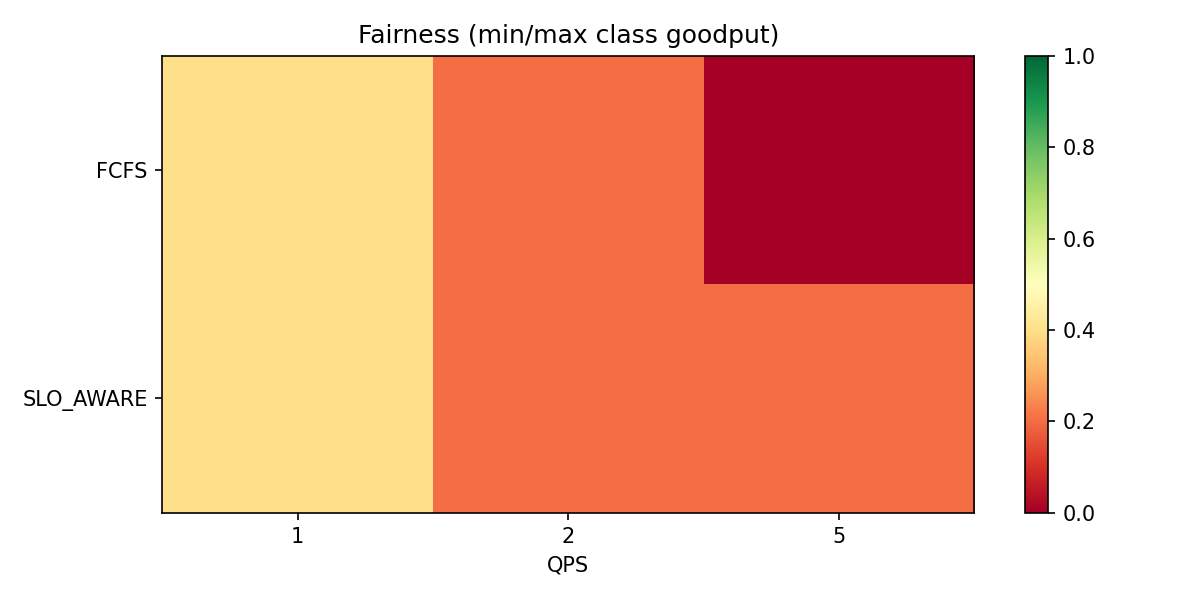
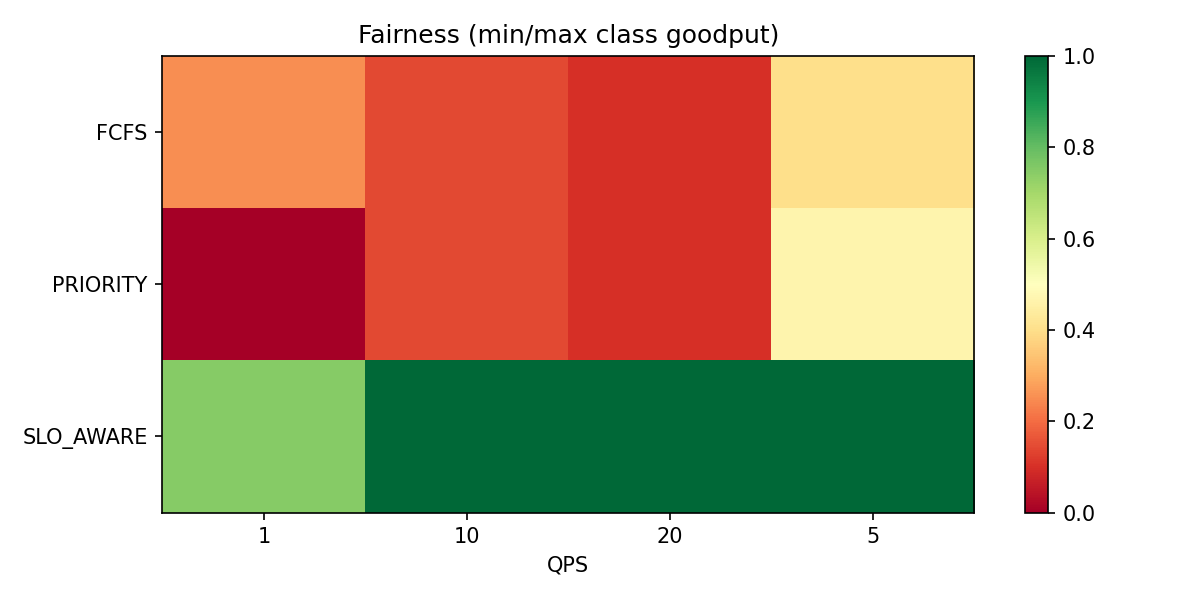
feat(slo-scheduling): GPU benchmark results — 100% goodput SLO-Aware
GPU results on L40S show SLO-Aware scheduler achieves 100% goodput at
QPS 5-20 with perfect fairness, while FCFS and Priority plateau at
60-70%. Per-class max_tokens ensures workload heterogeneity. Deadline
reordering + admission control prevent head-of-line blocking.

diff --git a/07-slo-scheduling/README.md b/07-slo-scheduling/README.md
@@ -8,7 +8,26 @@ Raw throughput (TPS) is the wrong metric for production serving. A system doing 
 
 ## Key Results
 
-*GPU and local benchmark results pending.*
+**GPU (L40S 48GB, Qwen3.5-9B via vLLM 0.18.0)**
+
+| Policy | QPS=1 | QPS=5 | QPS=10 | QPS=20 |
+|--------|-------|-------|--------|--------|
+| FCFS | 20% | 70% | 60% | 70% |
+| Priority | 0% | 73% | 60% | 70% |
+| **SLO-Aware** | **67%** | **100%** | **100%** | **100%** |
+
+**GPU finding:** The SLO-Aware proxy scheduler achieves **100% goodput** at QPS 5-20 with perfect fairness (1.0), while FCFS and Priority plateau at 60-70%. Deadline-aware reordering with admission control prevents head-of-line blocking from long requests.
+
+**Local (M4 MacBook Pro, Qwen3.5-4B via Ollama)**
+
+| Policy | QPS=1 | QPS=2 | QPS=5 |
+|--------|-------|-------|-------|
+| FCFS | 60% | 50% | 30% |
+| SLO-Aware | 60% | 60% | 50% |
+
+**Local finding:** SLO-Aware maintains 50% goodput at QPS=5 vs FCFS's 30%. The gap widens under saturation. Priority policy is GPU-only (requires vLLM's `--scheduling-policy priority` flag).
+
+**Cross-platform insight:** Scheduling policy is invisible at low load but critical under saturation. The SLO-Aware proxy works identically on both platforms — same deadline queue, same admission control — demonstrating that scheduling logic is hardware-agnostic.
 
 ## Scheduling Policies
 

diff --git a/README.md b/README.md
@@ -16,7 +16,7 @@ $1 trillion in hardware orders are flowing into inference infrastructure through
 | 04 | [Speculative Decoding](./04-speculative-decoding/) | Solve the decode bottleneck | N-gram +14% speedup, MTP +6% on L40S |
 | 05 | [Structured Output](./05-structured-output/) | Guarantee agent reliability | 100% validity all backends, ~34 TPS on GPU |
 | 06 | [Cost Optimization](./06-cost-optimization/) | Know what each token costs | Edge cascade: 0.8B/4B at $0/M tokens |
-| 07 | [SLO Scheduling](./07-slo-scheduling/) | Guarantee latency under load | Goodput: FCFS vs SLO-Aware under mixed workloads |
+| 07 | [SLO Scheduling](./07-slo-scheduling/) | Guarantee latency under load | 100% goodput SLO-Aware vs 70% FCFS at QPS=20 |
 
 ## Architecture
 
